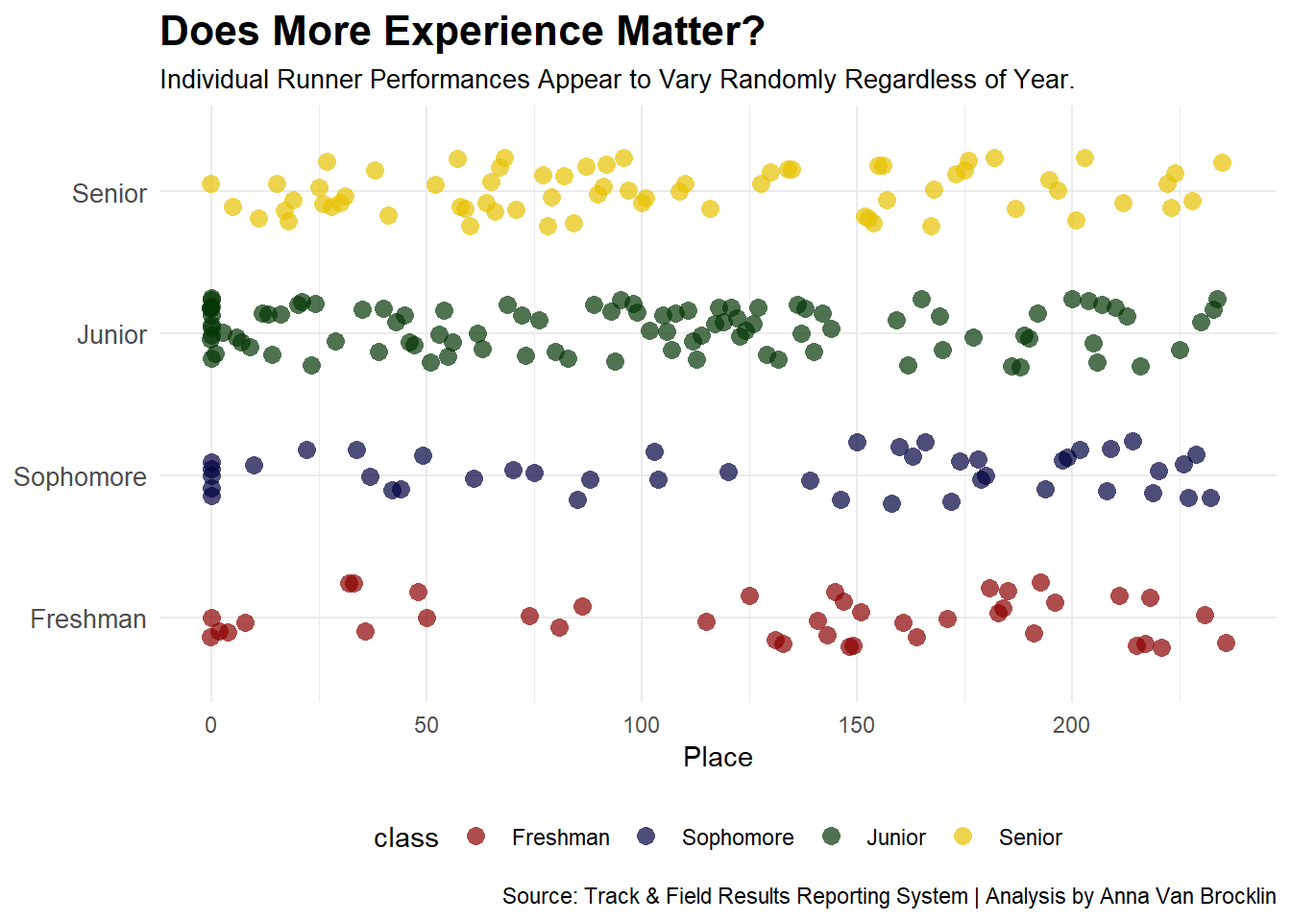
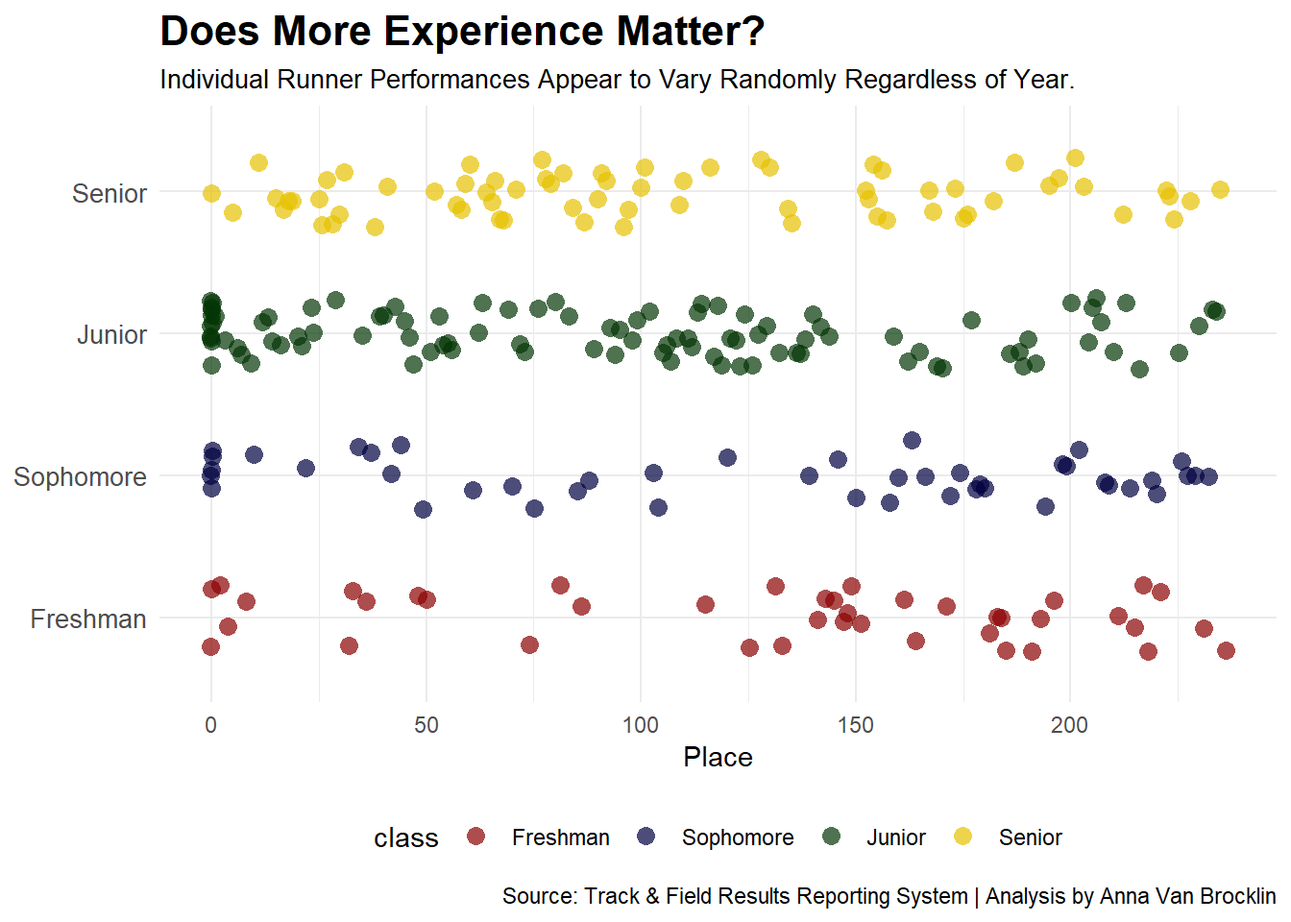
changes

diff --git a/posts/cross-country-championship-2023/index.html b/posts/cross-country-championship-2023/index.html
@@ -299,48 +299,101 @@ Caused by warning in `ifelse()`:
 </div>
 <p>The findings from our data show a decently even spread between runners of each year. There are noticeable patterns within the data, but this plot alone isn’t enough to prove one way or another in terms of whether experience has a significant impact on a runner’s performance in cross country.</p>
 <p>While we can see the groupings of runners that finished in the middle of the pack within the juniors and seniors, we can also see that freshman and sophomores tend to have a more even spread with runners evenly spaced throughout the race</p>
-<p>From our data it is clear when looking at the averages between seniors, juniors, sophomores and freshmen that seniors take the lead. Additionally, there 157 upperclassmen runners in this specific race, with only 79 underclassmen runners which could have a major impact on the average race times overall, and help their average race time. It’s also worth noting that despite the data showing juniors in last according to the average, out of all four years, juniors individually made up 50% of the top 10 runners. This is why it is important to look at our data in different ways, as one visual can tell one side of a story and another can tell a different perspective.</p>
 <div class="cell">
 <details class="code-fold">
 <summary>Code</summary>
-<div class="sourceCode cell-code" id="cb9"><pre class="sourceCode r code-with-copy"><code class="sourceCode r"><span id="cb9-1"><a href="#cb9-1" aria-hidden="true" tabindex="-1"></a><span class="fu">library</span>(ggplot2)</span>
-<span id="cb9-2"><a href="#cb9-2" aria-hidden="true" tabindex="-1"></a><span class="fu">library</span>(dplyr)</span>
-<span id="cb9-3"><a href="#cb9-3" aria-hidden="true" tabindex="-1"></a><span class="fu">library</span>(stringr)</span>
-<span id="cb9-4"><a href="#cb9-4" aria-hidden="true" tabindex="-1"></a></span>
-<span id="cb9-5"><a href="#cb9-5" aria-hidden="true" tabindex="-1"></a>xc_log_clean <span class="ot">&lt;-</span> xc_log <span class="sc">%&gt;%</span></span>
-<span id="cb9-6"><a href="#cb9-6" aria-hidden="true" tabindex="-1"></a>  <span class="fu">filter</span>(<span class="sc">!</span>TIME <span class="sc">%in%</span> <span class="fu">c</span>(<span class="st">"DNF"</span>, <span class="st">"DNS"</span>)) <span class="sc">%&gt;%</span>  <span class="co"># Remove rows with DNF or DNS</span></span>
-<span id="cb9-7"><a href="#cb9-7" aria-hidden="true" tabindex="-1"></a>  <span class="fu">mutate</span>(</span>
-<span id="cb9-8"><a href="#cb9-8" aria-hidden="true" tabindex="-1"></a>    <span class="at">FinishingTime =</span> <span class="fu">as.numeric</span>(<span class="fu">str_extract</span>(TIME, <span class="st">"^</span><span class="sc">\\</span><span class="st">d+"</span>)) <span class="sc">*</span> <span class="dv">60</span> <span class="sc">+</span>  <span class="co"># Extract minutes and convert to seconds</span></span>
-<span id="cb9-9"><a href="#cb9-9" aria-hidden="true" tabindex="-1"></a>                    <span class="fu">as.numeric</span>(<span class="fu">str_extract</span>(TIME, <span class="st">"</span><span class="sc">\\</span><span class="st">d+$"</span>)),</span>
-<span id="cb9-10"><a href="#cb9-10" aria-hidden="true" tabindex="-1"></a>    <span class="at">Class =</span> <span class="fu">case_when</span>(</span>
-<span id="cb9-11"><a href="#cb9-11" aria-hidden="true" tabindex="-1"></a>      <span class="fu">grepl</span>(<span class="st">"^FR|^SO"</span>, YEAR) <span class="sc">~</span> <span class="st">"Underclassmen"</span>,  <span class="co"># Freshman or Sophomore</span></span>
-<span id="cb9-12"><a href="#cb9-12" aria-hidden="true" tabindex="-1"></a>      <span class="fu">grepl</span>(<span class="st">"^JR|^SR"</span>, YEAR) <span class="sc">~</span> <span class="st">"Upperclassmen"</span>,   <span class="co"># Junior or Senior</span></span>
-<span id="cb9-13"><a href="#cb9-13" aria-hidden="true" tabindex="-1"></a>      <span class="cn">TRUE</span> <span class="sc">~</span> <span class="st">"Other"</span>                           <span class="co"># Handle other cases as "Other"</span></span>
-<span id="cb9-14"><a href="#cb9-14" aria-hidden="true" tabindex="-1"></a>    )</span>
-<span id="cb9-15"><a href="#cb9-15" aria-hidden="true" tabindex="-1"></a>  )</span>
-<span id="cb9-16"><a href="#cb9-16" aria-hidden="true" tabindex="-1"></a></span>
-<span id="cb9-17"><a href="#cb9-17" aria-hidden="true" tabindex="-1"></a></span>
-<span id="cb9-18"><a href="#cb9-18" aria-hidden="true" tabindex="-1"></a><span class="fu">ggplot</span>(xc_log_clean, <span class="fu">aes</span>(<span class="at">x =</span> FinishingTime <span class="sc">/</span> <span class="dv">60</span>, <span class="at">fill =</span> Class)) <span class="sc">+</span>  </span>
-<span id="cb9-19"><a href="#cb9-19" aria-hidden="true" tabindex="-1"></a>  <span class="fu">geom_histogram</span>(<span class="at">binwidth =</span> <span class="fl">0.2</span>, <span class="at">position =</span> <span class="st">"dodge"</span>, <span class="at">color =</span> <span class="st">"black"</span>, <span class="at">alpha =</span> <span class="fl">0.7</span>, <span class="at">fill =</span> <span class="st">"grey"</span>) <span class="sc">+</span>  </span>
-<span id="cb9-20"><a href="#cb9-20" aria-hidden="true" tabindex="-1"></a>  <span class="fu">facet_wrap</span>(<span class="sc">~</span> Class, <span class="at">nrow =</span> <span class="dv">1</span>) <span class="sc">+</span></span>
-<span id="cb9-21"><a href="#cb9-21" aria-hidden="true" tabindex="-1"></a>  <span class="fu">labs</span>(</span>
-<span id="cb9-22"><a href="#cb9-22" aria-hidden="true" tabindex="-1"></a>    <span class="at">title =</span> <span class="st">"Is Beginner's Luck the Key to Success?"</span>,</span>
-<span id="cb9-23"><a href="#cb9-23" aria-hidden="true" tabindex="-1"></a>    <span class="at">subtitle =</span> <span class="st">"Underclassmen Runners Show Promising Talent, but is that Enough to Beat Experienced Runners?</span></span>
-<span id="cb9-24"><a href="#cb9-24" aria-hidden="true" tabindex="-1"></a><span class="st">"</span>,</span>
-<span id="cb9-25"><a href="#cb9-25" aria-hidden="true" tabindex="-1"></a>    <span class="at">x =</span> <span class="st">"Finishing Time (Minutes)"</span>,</span>
-<span id="cb9-26"><a href="#cb9-26" aria-hidden="true" tabindex="-1"></a>    <span class="at">y =</span> <span class="st">"Number of Runners"</span>,</span>
-<span id="cb9-27"><a href="#cb9-27" aria-hidden="true" tabindex="-1"></a>    <span class="at">caption =</span> <span class="st">"Source: Track &amp; Field Results Reporting System | By Anna Van Brocklin"</span></span>
-<span id="cb9-28"><a href="#cb9-28" aria-hidden="true" tabindex="-1"></a>  ) <span class="sc">+</span></span>
-<span id="cb9-29"><a href="#cb9-29" aria-hidden="true" tabindex="-1"></a>  <span class="fu">theme_minimal</span>(<span class="at">base_size =</span> <span class="dv">12</span>) <span class="sc">+</span></span>
-<span id="cb9-30"><a href="#cb9-30" aria-hidden="true" tabindex="-1"></a>  <span class="fu">theme</span>(</span>
-<span id="cb9-31"><a href="#cb9-31" aria-hidden="true" tabindex="-1"></a>    <span class="at">plot.title =</span> <span class="fu">element_text</span>(<span class="at">face =</span> <span class="st">"bold"</span>, <span class="at">size =</span> <span class="dv">16</span>, <span class="at">hjust =</span> <span class="fl">0.5</span>),</span>
-<span id="cb9-32"><a href="#cb9-32" aria-hidden="true" tabindex="-1"></a>    <span class="at">plot.subtitle =</span> <span class="fu">element_text</span>(<span class="at">size =</span> <span class="dv">12</span>, <span class="at">hjust =</span> <span class="fl">0.5</span>),</span>
-<span id="cb9-33"><a href="#cb9-33" aria-hidden="true" tabindex="-1"></a>    <span class="at">strip.text =</span> <span class="fu">element_text</span>(<span class="at">face =</span> <span class="st">"bold"</span>, <span class="at">size =</span> <span class="dv">14</span>),</span>
-<span id="cb9-34"><a href="#cb9-34" aria-hidden="true" tabindex="-1"></a>    <span class="at">axis.title =</span> <span class="fu">element_text</span>(<span class="at">size =</span> <span class="dv">12</span>),</span>
-<span id="cb9-35"><a href="#cb9-35" aria-hidden="true" tabindex="-1"></a>    <span class="at">legend.title =</span> <span class="fu">element_text</span>(<span class="at">face =</span> <span class="st">"bold"</span>, <span class="at">size =</span> <span class="dv">12</span>),</span>
-<span id="cb9-36"><a href="#cb9-36" aria-hidden="true" tabindex="-1"></a>    <span class="at">legend.text =</span> <span class="fu">element_text</span>(<span class="at">size =</span> <span class="dv">10</span>),</span>
-<span id="cb9-37"><a href="#cb9-37" aria-hidden="true" tabindex="-1"></a>    <span class="at">plot.margin =</span> <span class="fu">margin</span>(<span class="dv">15</span>, <span class="dv">15</span>, <span class="dv">15</span>, <span class="dv">15</span>)</span>
-<span id="cb9-38"><a href="#cb9-38" aria-hidden="true" tabindex="-1"></a>  )</span></code><button title="Copy to Clipboard" class="code-copy-button"><i class="bi"></i></button></pre></div>
+<div class="sourceCode cell-code" id="cb9"><pre class="sourceCode r code-with-copy"><code class="sourceCode r"><span id="cb9-1"><a href="#cb9-1" aria-hidden="true" tabindex="-1"></a><span class="fu">ggplot</span>(<span class="at">data =</span> xc_log, <span class="fu">aes</span>(<span class="at">x =</span> YEAR, <span class="at">y =</span> TIME, <span class="at">fill =</span> YEAR)) <span class="sc">+</span></span>
+<span id="cb9-2"><a href="#cb9-2" aria-hidden="true" tabindex="-1"></a>  <span class="fu">geom_bar</span>(<span class="at">stat =</span> <span class="st">"summary"</span>, <span class="at">fun =</span> <span class="st">"mean"</span>) <span class="sc">+</span></span>
+<span id="cb9-3"><a href="#cb9-3" aria-hidden="true" tabindex="-1"></a>  <span class="fu">scale_fill_manual</span>(</span>
+<span id="cb9-4"><a href="#cb9-4" aria-hidden="true" tabindex="-1"></a>    <span class="at">values =</span> <span class="fu">c</span>(</span>
+<span id="cb9-5"><a href="#cb9-5" aria-hidden="true" tabindex="-1"></a>      <span class="st">"FR-1"</span> <span class="ot">=</span> <span class="st">"#8B0000"</span>,  <span class="co"># Dark Red</span></span>
+<span id="cb9-6"><a href="#cb9-6" aria-hidden="true" tabindex="-1"></a>      <span class="st">"SO-2"</span> <span class="ot">=</span> <span class="st">"#00003f"</span>,  <span class="co"># Dark Blue</span></span>
+<span id="cb9-7"><a href="#cb9-7" aria-hidden="true" tabindex="-1"></a>      <span class="st">"JR-3"</span> <span class="ot">=</span> <span class="st">"#033504"</span>,  <span class="co"># Dark Green</span></span>
+<span id="cb9-8"><a href="#cb9-8" aria-hidden="true" tabindex="-1"></a>      <span class="st">"SR-4"</span> <span class="ot">=</span> <span class="st">"#e6c200"</span>   <span class="co"># Gold</span></span>
+<span id="cb9-9"><a href="#cb9-9" aria-hidden="true" tabindex="-1"></a>    ),</span>
+<span id="cb9-10"><a href="#cb9-10" aria-hidden="true" tabindex="-1"></a>    <span class="at">labels =</span> <span class="fu">c</span>(</span>
+<span id="cb9-11"><a href="#cb9-11" aria-hidden="true" tabindex="-1"></a>      <span class="st">"FR-1"</span> <span class="ot">=</span> <span class="st">"Freshman"</span>,</span>
+<span id="cb9-12"><a href="#cb9-12" aria-hidden="true" tabindex="-1"></a>      <span class="st">"SO-2"</span> <span class="ot">=</span> <span class="st">"Sophomore"</span>,</span>
+<span id="cb9-13"><a href="#cb9-13" aria-hidden="true" tabindex="-1"></a>      <span class="st">"JR-3"</span> <span class="ot">=</span> <span class="st">"Junior"</span>,</span>
+<span id="cb9-14"><a href="#cb9-14" aria-hidden="true" tabindex="-1"></a>      <span class="st">"SR-4"</span> <span class="ot">=</span> <span class="st">"Senior"</span></span>
+<span id="cb9-15"><a href="#cb9-15" aria-hidden="true" tabindex="-1"></a>    )</span>
+<span id="cb9-16"><a href="#cb9-16" aria-hidden="true" tabindex="-1"></a>  ) <span class="sc">+</span></span>
+<span id="cb9-17"><a href="#cb9-17" aria-hidden="true" tabindex="-1"></a>  <span class="fu">scale_x_discrete</span>(</span>
+<span id="cb9-18"><a href="#cb9-18" aria-hidden="true" tabindex="-1"></a>    <span class="at">labels =</span> <span class="fu">c</span>(</span>
+<span id="cb9-19"><a href="#cb9-19" aria-hidden="true" tabindex="-1"></a>      <span class="st">"FR-1"</span> <span class="ot">=</span> <span class="st">"Freshman"</span>,</span>
+<span id="cb9-20"><a href="#cb9-20" aria-hidden="true" tabindex="-1"></a>      <span class="st">"SO-2"</span> <span class="ot">=</span> <span class="st">"Sophomore"</span>,</span>
+<span id="cb9-21"><a href="#cb9-21" aria-hidden="true" tabindex="-1"></a>      <span class="st">"JR-3"</span> <span class="ot">=</span> <span class="st">"Junior"</span>,</span>
+<span id="cb9-22"><a href="#cb9-22" aria-hidden="true" tabindex="-1"></a>      <span class="st">"SR-4"</span> <span class="ot">=</span> <span class="st">"Senior"</span></span>
+<span id="cb9-23"><a href="#cb9-23" aria-hidden="true" tabindex="-1"></a>    )</span>
+<span id="cb9-24"><a href="#cb9-24" aria-hidden="true" tabindex="-1"></a>  ) <span class="sc">+</span></span>
+<span id="cb9-25"><a href="#cb9-25" aria-hidden="true" tabindex="-1"></a>  <span class="fu">labs</span>(</span>
+<span id="cb9-26"><a href="#cb9-26" aria-hidden="true" tabindex="-1"></a>    <span class="at">x =</span> <span class="st">"Year"</span>, </span>
+<span id="cb9-27"><a href="#cb9-27" aria-hidden="true" tabindex="-1"></a>    <span class="at">y =</span> <span class="st">"Average Race Time (Minutes)"</span>, </span>
+<span id="cb9-28"><a href="#cb9-28" aria-hidden="true" tabindex="-1"></a>    <span class="at">title =</span> <span class="st">"Underclassmen Take the Lead"</span>, </span>
+<span id="cb9-29"><a href="#cb9-29" aria-hidden="true" tabindex="-1"></a>    <span class="at">subtitle =</span> <span class="st">"Looking at the Average Race Times for Each Class."</span>, </span>
+<span id="cb9-30"><a href="#cb9-30" aria-hidden="true" tabindex="-1"></a>    <span class="at">caption =</span> <span class="st">"Source: Track &amp; Field Results Reporting System | Analysis by Anna Van Brocklin"</span></span>
+<span id="cb9-31"><a href="#cb9-31" aria-hidden="true" tabindex="-1"></a>  ) <span class="sc">+</span></span>
+<span id="cb9-32"><a href="#cb9-32" aria-hidden="true" tabindex="-1"></a></span>
+<span id="cb9-33"><a href="#cb9-33" aria-hidden="true" tabindex="-1"></a><span class="fu">theme_minimal</span>() <span class="sc">+</span> </span>
+<span id="cb9-34"><a href="#cb9-34" aria-hidden="true" tabindex="-1"></a>  <span class="fu">theme</span>(</span>
+<span id="cb9-35"><a href="#cb9-35" aria-hidden="true" tabindex="-1"></a>    <span class="at">plot.title =</span> <span class="fu">element_text</span>(<span class="at">size =</span> <span class="dv">20</span>, <span class="at">face =</span> <span class="st">"bold"</span>),</span>
+<span id="cb9-36"><a href="#cb9-36" aria-hidden="true" tabindex="-1"></a>    <span class="at">axis.title =</span> <span class="fu">element_text</span>(<span class="at">size =</span> <span class="dv">8</span>), </span>
+<span id="cb9-37"><a href="#cb9-37" aria-hidden="true" tabindex="-1"></a>    <span class="at">plot.subtitle =</span> <span class="fu">element_text</span>(<span class="at">size=</span><span class="dv">10</span>), </span>
+<span id="cb9-38"><a href="#cb9-38" aria-hidden="true" tabindex="-1"></a>    <span class="at">panel.grid.minor =</span> <span class="fu">element_blank</span>()</span>
+<span id="cb9-39"><a href="#cb9-39" aria-hidden="true" tabindex="-1"></a>    )</span></code><button title="Copy to Clipboard" class="code-copy-button"><i class="bi"></i></button></pre></div>
+</details>
+<div class="cell-output-display">
+<div>
+<figure class="figure">
+<p><img src="index_files/figure-html/unnamed-chunk-3-1.png" class="img-fluid figure-img" width="672"></p>
+</figure>
+</div>
+</div>
+</div>
+<p>From our data it is clear when looking at the averages between seniors, juniors, sophomores and freshmen that underclassmen take the lead, at least when their times are averaged together.</p>
+<p>However, it’s important to know, there 157 upperclassmen runners in this specific race, with only 79 underclassmen runners which could have a major impact on the average race times overall. While this works both ways, there are less underclassmen to impact the class average.</p>
+<p>It’s also worth noting that despite the data showing juniors in last according to the average, out of all four years, juniors individually made up 50% of the top 10 runners. This is why it is important to look at our data in different ways, as one visual can tell one side of a story and another can tell a different perspective.</p>
+<div class="cell">
+<details class="code-fold">
+<summary>Code</summary>
+<div class="sourceCode cell-code" id="cb10"><pre class="sourceCode r code-with-copy"><code class="sourceCode r"><span id="cb10-1"><a href="#cb10-1" aria-hidden="true" tabindex="-1"></a><span class="fu">library</span>(ggplot2)</span>
+<span id="cb10-2"><a href="#cb10-2" aria-hidden="true" tabindex="-1"></a><span class="fu">library</span>(dplyr)</span>
+<span id="cb10-3"><a href="#cb10-3" aria-hidden="true" tabindex="-1"></a><span class="fu">library</span>(stringr)</span>
+<span id="cb10-4"><a href="#cb10-4" aria-hidden="true" tabindex="-1"></a></span>
+<span id="cb10-5"><a href="#cb10-5" aria-hidden="true" tabindex="-1"></a>xc_log_clean <span class="ot">&lt;-</span> xc_log <span class="sc">%&gt;%</span></span>
+<span id="cb10-6"><a href="#cb10-6" aria-hidden="true" tabindex="-1"></a>  <span class="fu">filter</span>(<span class="sc">!</span>TIME <span class="sc">%in%</span> <span class="fu">c</span>(<span class="st">"DNF"</span>, <span class="st">"DNS"</span>)) <span class="sc">%&gt;%</span>  <span class="co"># Remove rows with DNF or DNS</span></span>
+<span id="cb10-7"><a href="#cb10-7" aria-hidden="true" tabindex="-1"></a>  <span class="fu">mutate</span>(</span>
+<span id="cb10-8"><a href="#cb10-8" aria-hidden="true" tabindex="-1"></a>    <span class="at">FinishingTime =</span> <span class="fu">as.numeric</span>(<span class="fu">str_extract</span>(TIME, <span class="st">"^</span><span class="sc">\\</span><span class="st">d+"</span>)) <span class="sc">*</span> <span class="dv">60</span> <span class="sc">+</span>  <span class="co"># Extract minutes and convert to seconds</span></span>
+<span id="cb10-9"><a href="#cb10-9" aria-hidden="true" tabindex="-1"></a>                    <span class="fu">as.numeric</span>(<span class="fu">str_extract</span>(TIME, <span class="st">"</span><span class="sc">\\</span><span class="st">d+$"</span>)),</span>
+<span id="cb10-10"><a href="#cb10-10" aria-hidden="true" tabindex="-1"></a>    <span class="at">Class =</span> <span class="fu">case_when</span>(</span>
+<span id="cb10-11"><a href="#cb10-11" aria-hidden="true" tabindex="-1"></a>      <span class="fu">grepl</span>(<span class="st">"^FR|^SO"</span>, YEAR) <span class="sc">~</span> <span class="st">"Underclassmen"</span>,  <span class="co"># Freshman or Sophomore</span></span>
+<span id="cb10-12"><a href="#cb10-12" aria-hidden="true" tabindex="-1"></a>      <span class="fu">grepl</span>(<span class="st">"^JR|^SR"</span>, YEAR) <span class="sc">~</span> <span class="st">"Upperclassmen"</span>,   <span class="co"># Junior or Senior</span></span>
+<span id="cb10-13"><a href="#cb10-13" aria-hidden="true" tabindex="-1"></a>      <span class="cn">TRUE</span> <span class="sc">~</span> <span class="st">"Other"</span>                           <span class="co"># Handle other cases as "Other"</span></span>
+<span id="cb10-14"><a href="#cb10-14" aria-hidden="true" tabindex="-1"></a>    )</span>
+<span id="cb10-15"><a href="#cb10-15" aria-hidden="true" tabindex="-1"></a>  )</span>
+<span id="cb10-16"><a href="#cb10-16" aria-hidden="true" tabindex="-1"></a></span>
+<span id="cb10-17"><a href="#cb10-17" aria-hidden="true" tabindex="-1"></a></span>
+<span id="cb10-18"><a href="#cb10-18" aria-hidden="true" tabindex="-1"></a><span class="fu">ggplot</span>(xc_log_clean, <span class="fu">aes</span>(<span class="at">x =</span> FinishingTime <span class="sc">/</span> <span class="dv">60</span>, <span class="at">fill =</span> Class)) <span class="sc">+</span>  </span>
+<span id="cb10-19"><a href="#cb10-19" aria-hidden="true" tabindex="-1"></a>  <span class="fu">geom_histogram</span>(<span class="at">binwidth =</span> <span class="fl">0.2</span>, <span class="at">position =</span> <span class="st">"dodge"</span>, <span class="at">color =</span> <span class="st">"black"</span>, <span class="at">alpha =</span> <span class="fl">0.7</span>, <span class="at">fill =</span> <span class="st">"grey"</span>) <span class="sc">+</span>  </span>
+<span id="cb10-20"><a href="#cb10-20" aria-hidden="true" tabindex="-1"></a>  <span class="fu">facet_wrap</span>(<span class="sc">~</span> Class, <span class="at">nrow =</span> <span class="dv">1</span>) <span class="sc">+</span></span>
+<span id="cb10-21"><a href="#cb10-21" aria-hidden="true" tabindex="-1"></a>  <span class="fu">labs</span>(</span>
+<span id="cb10-22"><a href="#cb10-22" aria-hidden="true" tabindex="-1"></a>    <span class="at">title =</span> <span class="st">"Is Beginner's Luck the Key to Success?"</span>,</span>
+<span id="cb10-23"><a href="#cb10-23" aria-hidden="true" tabindex="-1"></a>    <span class="at">subtitle =</span> <span class="st">"Underclassmen Runners Show Promising Talent, but is that Enough to Beat Experienced Runners?</span></span>
+<span id="cb10-24"><a href="#cb10-24" aria-hidden="true" tabindex="-1"></a><span class="st">"</span>,</span>
+<span id="cb10-25"><a href="#cb10-25" aria-hidden="true" tabindex="-1"></a>    <span class="at">x =</span> <span class="st">"Finishing Time (Minutes)"</span>,</span>
+<span id="cb10-26"><a href="#cb10-26" aria-hidden="true" tabindex="-1"></a>    <span class="at">y =</span> <span class="st">"Number of Runners"</span>,</span>
+<span id="cb10-27"><a href="#cb10-27" aria-hidden="true" tabindex="-1"></a>    <span class="at">caption =</span> <span class="st">"Source: Track &amp; Field Results Reporting System | By Anna Van Brocklin"</span></span>
+<span id="cb10-28"><a href="#cb10-28" aria-hidden="true" tabindex="-1"></a>  ) <span class="sc">+</span></span>
+<span id="cb10-29"><a href="#cb10-29" aria-hidden="true" tabindex="-1"></a>  <span class="fu">theme_minimal</span>(<span class="at">base_size =</span> <span class="dv">12</span>) <span class="sc">+</span></span>
+<span id="cb10-30"><a href="#cb10-30" aria-hidden="true" tabindex="-1"></a>  <span class="fu">theme</span>(</span>
+<span id="cb10-31"><a href="#cb10-31" aria-hidden="true" tabindex="-1"></a>    <span class="at">plot.title =</span> <span class="fu">element_text</span>(<span class="at">face =</span> <span class="st">"bold"</span>, <span class="at">size =</span> <span class="dv">16</span>, <span class="at">hjust =</span> <span class="fl">0.5</span>),</span>
+<span id="cb10-32"><a href="#cb10-32" aria-hidden="true" tabindex="-1"></a>    <span class="at">plot.subtitle =</span> <span class="fu">element_text</span>(<span class="at">size =</span> <span class="dv">12</span>, <span class="at">hjust =</span> <span class="fl">0.5</span>),</span>
+<span id="cb10-33"><a href="#cb10-33" aria-hidden="true" tabindex="-1"></a>    <span class="at">strip.text =</span> <span class="fu">element_text</span>(<span class="at">face =</span> <span class="st">"bold"</span>, <span class="at">size =</span> <span class="dv">14</span>),</span>
+<span id="cb10-34"><a href="#cb10-34" aria-hidden="true" tabindex="-1"></a>    <span class="at">axis.title =</span> <span class="fu">element_text</span>(<span class="at">size =</span> <span class="dv">12</span>),</span>
+<span id="cb10-35"><a href="#cb10-35" aria-hidden="true" tabindex="-1"></a>    <span class="at">legend.title =</span> <span class="fu">element_text</span>(<span class="at">face =</span> <span class="st">"bold"</span>, <span class="at">size =</span> <span class="dv">12</span>),</span>
+<span id="cb10-36"><a href="#cb10-36" aria-hidden="true" tabindex="-1"></a>    <span class="at">legend.text =</span> <span class="fu">element_text</span>(<span class="at">size =</span> <span class="dv">10</span>),</span>
+<span id="cb10-37"><a href="#cb10-37" aria-hidden="true" tabindex="-1"></a>    <span class="at">plot.margin =</span> <span class="fu">margin</span>(<span class="dv">15</span>, <span class="dv">15</span>, <span class="dv">15</span>, <span class="dv">15</span>)</span>
+<span id="cb10-38"><a href="#cb10-38" aria-hidden="true" tabindex="-1"></a>  )</span></code><button title="Copy to Clipboard" class="code-copy-button"><i class="bi"></i></button></pre></div>
 </details>
 <div class="cell-output-display">
 <div>
@@ -352,10 +405,10 @@ Caused by warning in `ifelse()`:
 </div>
 <p>While both underclassmen and upperclassmen appear to be more skewed to the left, faster times, underclassmen have a slight edge compared to the older runners. This suggests that newer runners are not only keeping pace with their more experienced counterparts but are also pushing the boundaries of performance.</p>
 <p>That being said, upperclassmen have more runners finishing in the midst of the race, with times closer to the overall average. It can also be said that upperclassmen seem to have less runners towards the right of the race, which shows they tend to be a bit more consistent overall.</p>
-<p>The data from the NCAA DI Men’s Cross Country Championship reveals interesting patterns in performance across different class levels. While seniors emerge as the top performers on average, the consistency of underclassmen, particularly among the top finishers, is notable. Although juniors lag behind, freshmen and sophomores hold their own, bridging the gap between the less experienced and the experienced runners.</p>
+<p>The data from the NCAA DI Men’s Cross Country Championship reveals interesting patterns in performance across different class levels. While seniors emerge as the top performers on average, the consistency of underclassmen, particularly among the top finishers, is notable. Although juniors lag behind a group, they tend to perform well individually, in terms of placing runners.</p>
 <p>While visually the two groups look different in terms of their data, as a whole, one group of runners doesn’t seem to have a strong advantage over the others, at least in this particular race. To get a better idea of the data and consistencies, we’d most likely need to look at more races and make comparisons to prior year’s races.</p>
 <p>We do see clear differences in the data between the different years of runners, however, there are a few factors that could lead to this such as coaching, training, injury history and of course individual talent. Additionally, there 157 upperclassmen runners in this specific race, with only 79 underclassmen runners which could have a major impact on the average race times overall.</p>
-<p>Interestingly, while underclassmen display a wider range of finishing times, capturing both some of the fastest and slowest, upperclassmen often cluster around middle performance ranges. This distribution ultimately balances out, with both groups achieving comparable average times. These findings suggest that while experience may play a role, it doesn’t overwhelmingly favor one class level over another, emphasizing a fairly level playing field in college cross country.</p>
+<p>Interestingly, while underclassmen display a wider range of finishing times, capturing both some of the fastest and slowest, upperclassmen often cluster around middle performance ranges. This distribution ultimately balances out, with both groups achieving comparable average times. These findings suggest that while underclassmen are slightly favored in this race, there isn’t a clear winner being newer and experienced runners, emphasizing a fairly level playing field for the 2023 DI Cross Country Championship.</p>
 
 
 

diff --git a/site_libs/quarto-html/anchor.min.js b/site_libs/quarto-html/anchor.min.js
@@ -1,0 +1,9 @@
+// @license magnet:?xt=urn:btih:d3d9a9a6595521f9666a5e94cc830dab83b65699&dn=expat.txt Expat
+//
+// AnchorJS - v5.0.0 - 2023-01-18
+// https://www.bryanbraun.com/anchorjs/
+// Copyright (c) 2023 Bryan Braun; Licensed MIT
+//
+// @license magnet:?xt=urn:btih:d3d9a9a6595521f9666a5e94cc830dab83b65699&dn=expat.txt Expat
[1 lines of base64/hex data omitted]
+// @license-end
